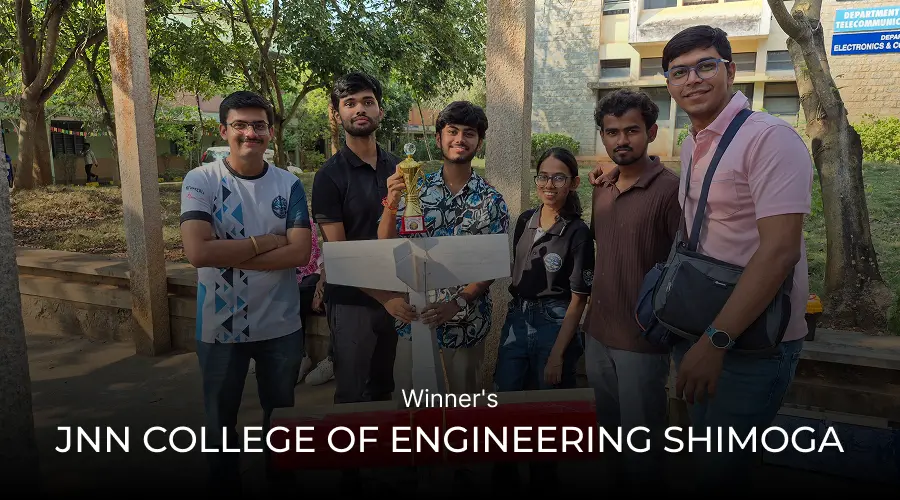
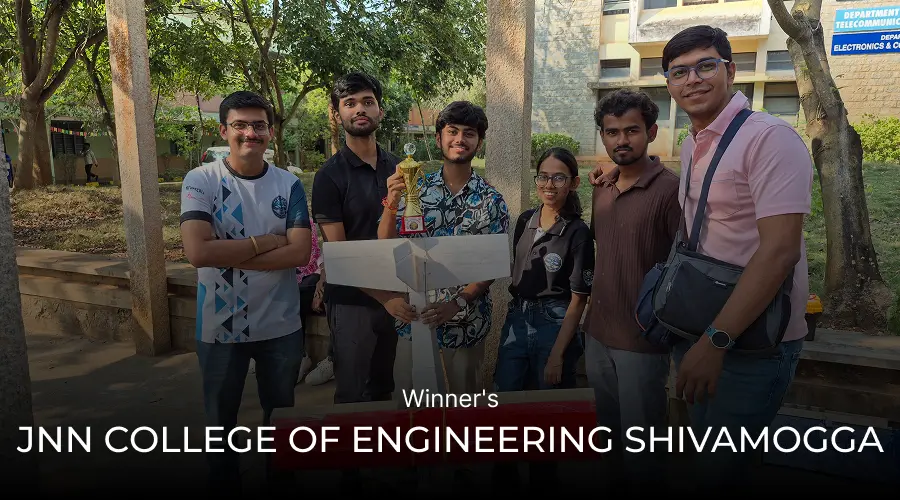
removing dhruv makwana

Changed region(s): [[0.0311, 0.84, 0.9956, 0.93], [0.4356, 0.78, 0.56, 0.81]]

diff --git a/src/components/Team.jsx b/src/components/Team.jsx
@@ -20,7 +20,6 @@ import chetan_kumar_sah from '../images/team-members/Chetan_Kumar_Sah.jpg';
 import dhanasree from '../images/team-members/Dhanasree.jpg';
 import g_shifa_khanum_niraj from '../images/team-members/G_Shifa_Khanum.jpg';
 import kenge_madhur_niraj from '../images/team-members/Kenge_Madhur_Niraj.jpeg';
-import makwana_dhruv_dilipbhai from '../images/team-members/Makwana_Dhruv_Dilipbhai.jpeg';
 import om_srivastava from '../images/team-members/Om_Srivastava.jpg';
 import omkar_kharade from '../images/team-members/Omkar_Kharade.png';
 import peddinti_ananta_venkata_seersha from '../images/team-members/Peddinti_Ananta_Venkata_Seersha.jpg';
@@ -75,7 +74,7 @@ const Team = () => {
     { name: 'Om Srivastava', role: 'Member', subsystem: 'Structures', image: om_srivastava, linkedIn: 'www.linkedin.com/in/om-srivastava-2k28' },
     { name: 'Abhishek M', role: 'Member', subsystem: 'Media', image: abhishek_m, linkedIn: 'https://www.linkedin.com/in/abhishek-m-959609318/' },
 
-    { name: 'Makwana Dhruv', role: 'Member', subsystem: 'Aerodynamics', image: makwana_dhruv_dilipbhai, linkedIn: 'https://www.linkedin.com/in/dhruv-makwana-724358327' },
+
     { name: 'Aryan Gupta', role: 'Member', subsystem: 'Aerodynamics', image: aryan_gupta, linkedIn: 'www.linkedin.com/in/aryan-g-b27278247' },
     { name: 'Madhur Kenge', role: 'Member', subsystem: 'Structures', image: kenge_madhur_niraj, linkedIn: 'www.linkedin.com/in/madhur-kenge-354238326' },
 
